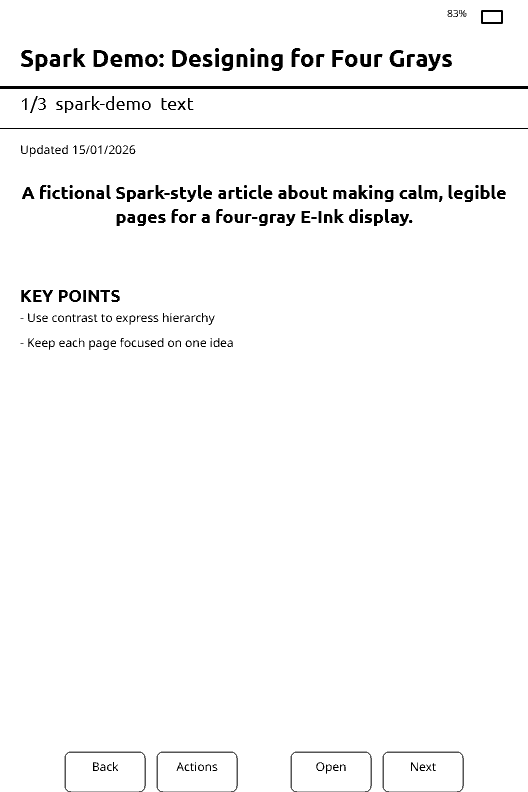
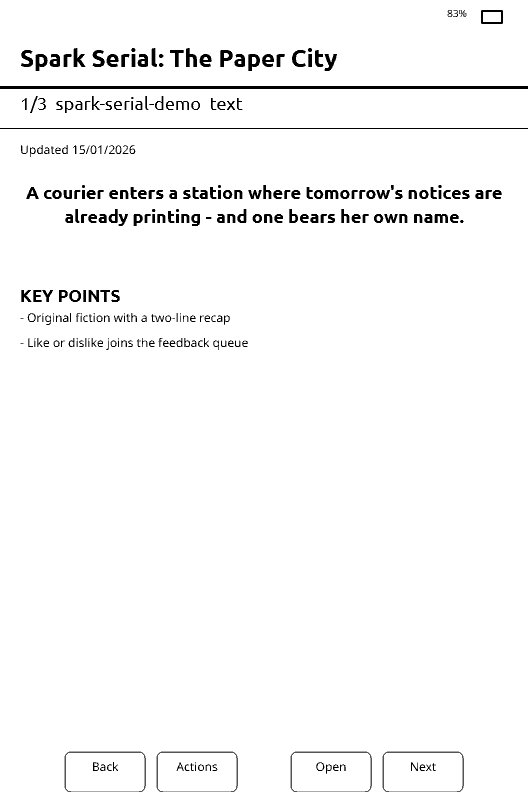
Replace low-resolution README previews

diff --git a/README.md b/README.md
@@ -35,13 +35,25 @@ This repository is the companion to the [X3 Preview & QA Lab](https://github.com
 
 ## What the Inbox actually looks like
 
-These are native 528×792 X3 render captures, not enlarged phone mockups.
+These are direct native 528×792 modeled framebuffers, not browser crops or enlarged phone mockups. The overview uses 2× nearest-neighbor presentation so high-density displays do not soften or relocate the pixels. Click it for the full `3456 × 3688` file.
 
-| Inbox V2 feed | Opened text artifact |
-| --- | --- |
-| ![Inbox V2 feed](docs/images/inbox-v2-default-preview-528x792.png) | ![Opened text artifact](docs/images/inbox-v2-open-article-528x792.png) |
+<a href="docs/images/engagement/xtinct-x3-native-showcase-2x.png"><img src="docs/images/engagement/xtinct-x3-native-showcase-2x.png" width="1200" alt="High-resolution modeled X3 Home, Daily Cards V1, Inbox V2, Like and Dislike feedback, opened article and daily puzzle screens"></a>
 
-The X3 panel is low resolution by modern phone standards. The firmware uses the device's actual resolution and four grayscale levels; the screenshots should be viewed at 1:1 pixels for the honest result.
+The screens are intentionally shown at useful width rather than squeezed side-by-side into a Markdown table.
+
+### Inbox V2 preview
+
+<a href="docs/images/inbox-v2-default-preview-528x792.png"><img src="docs/images/engagement/inbox-v2-default-preview-2x-1056x1584.png" width="528" alt="High-resolution modeled X3 Inbox V2 preview for the fictional Spark serial The Paper City"></a>
+
+### Like / dislike feedback
+
+<a href="docs/images/inbox-v2-feedback-actions-528x792.png"><img src="docs/images/engagement/inbox-v2-feedback-actions-2x-1056x1584.png" width="528" alt="High-resolution modeled X3 Inbox actions menu with Like and Dislike feedback"></a>
+
+### Opened text artifact
+
+<a href="docs/images/inbox-v2-open-article-528x792.png"><img src="docs/images/engagement/inbox-v2-open-article-2x-1056x1584.png" width="528" alt="High-resolution modeled X3 reader showing the fictional Spark serial The Paper City"></a>
+
+All visible material is synthetic: an original 876-word serial, a fictional project watch card, a fictional design case study and an original puzzle page. Every person, company, project, opportunity, metric, date and event is invented. The X3 panel is low resolution by modern phone standards; the linked native files remain the honest 1:1 output, while the 2× PNGs add no interpolated detail.
 
 ## How content reaches the X3
 
